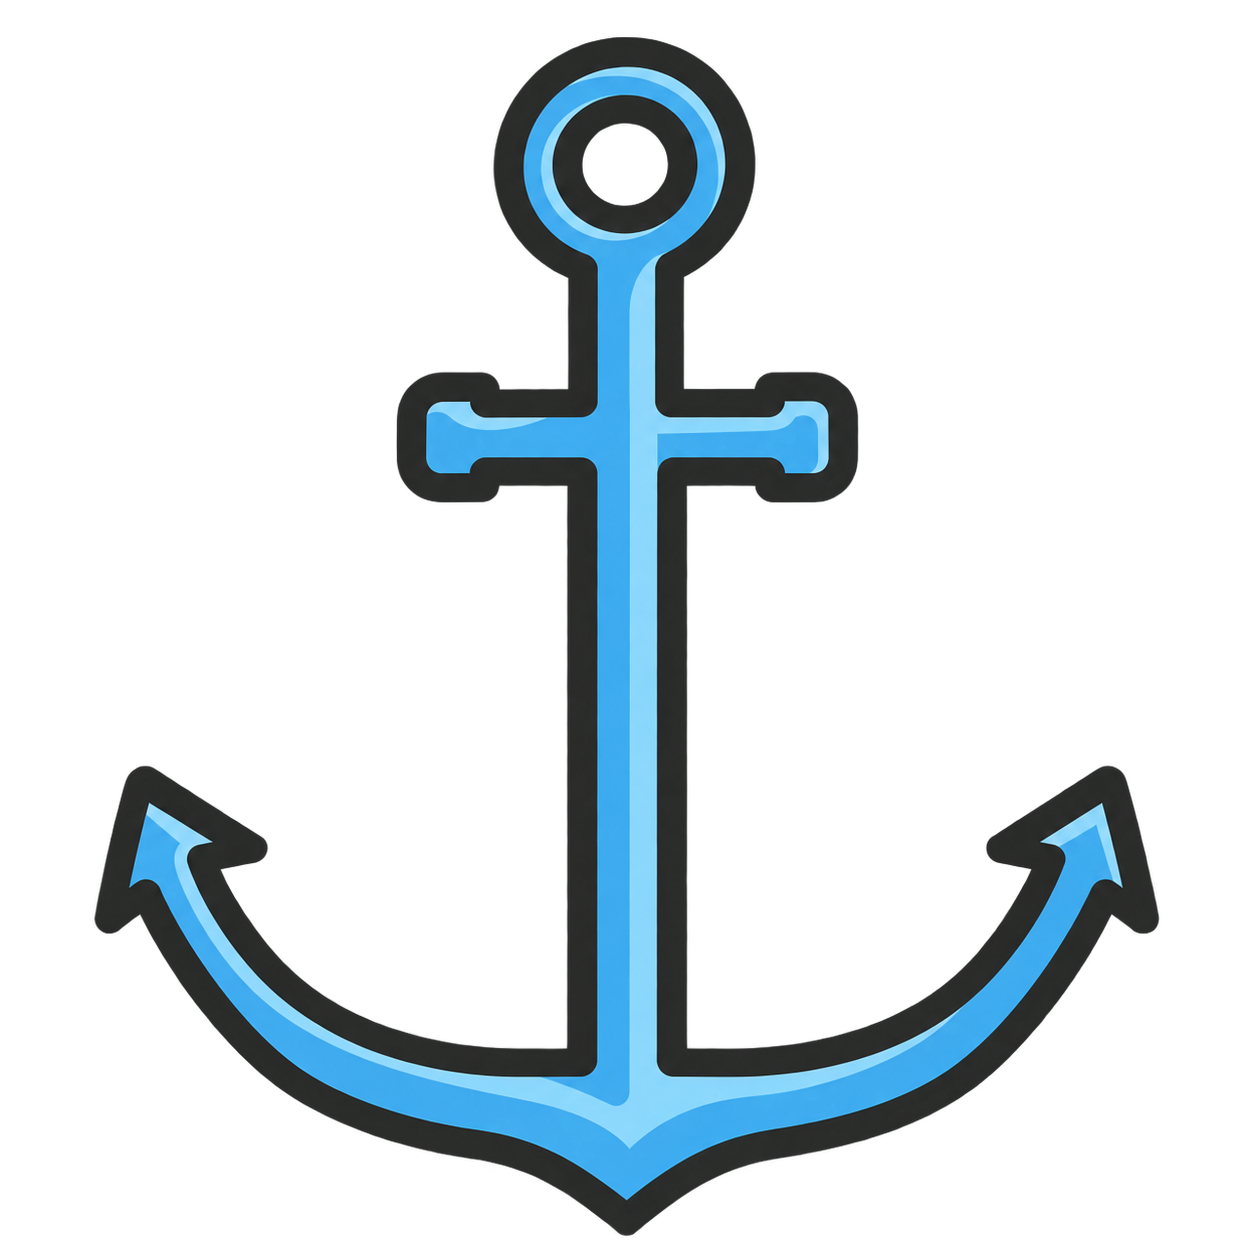
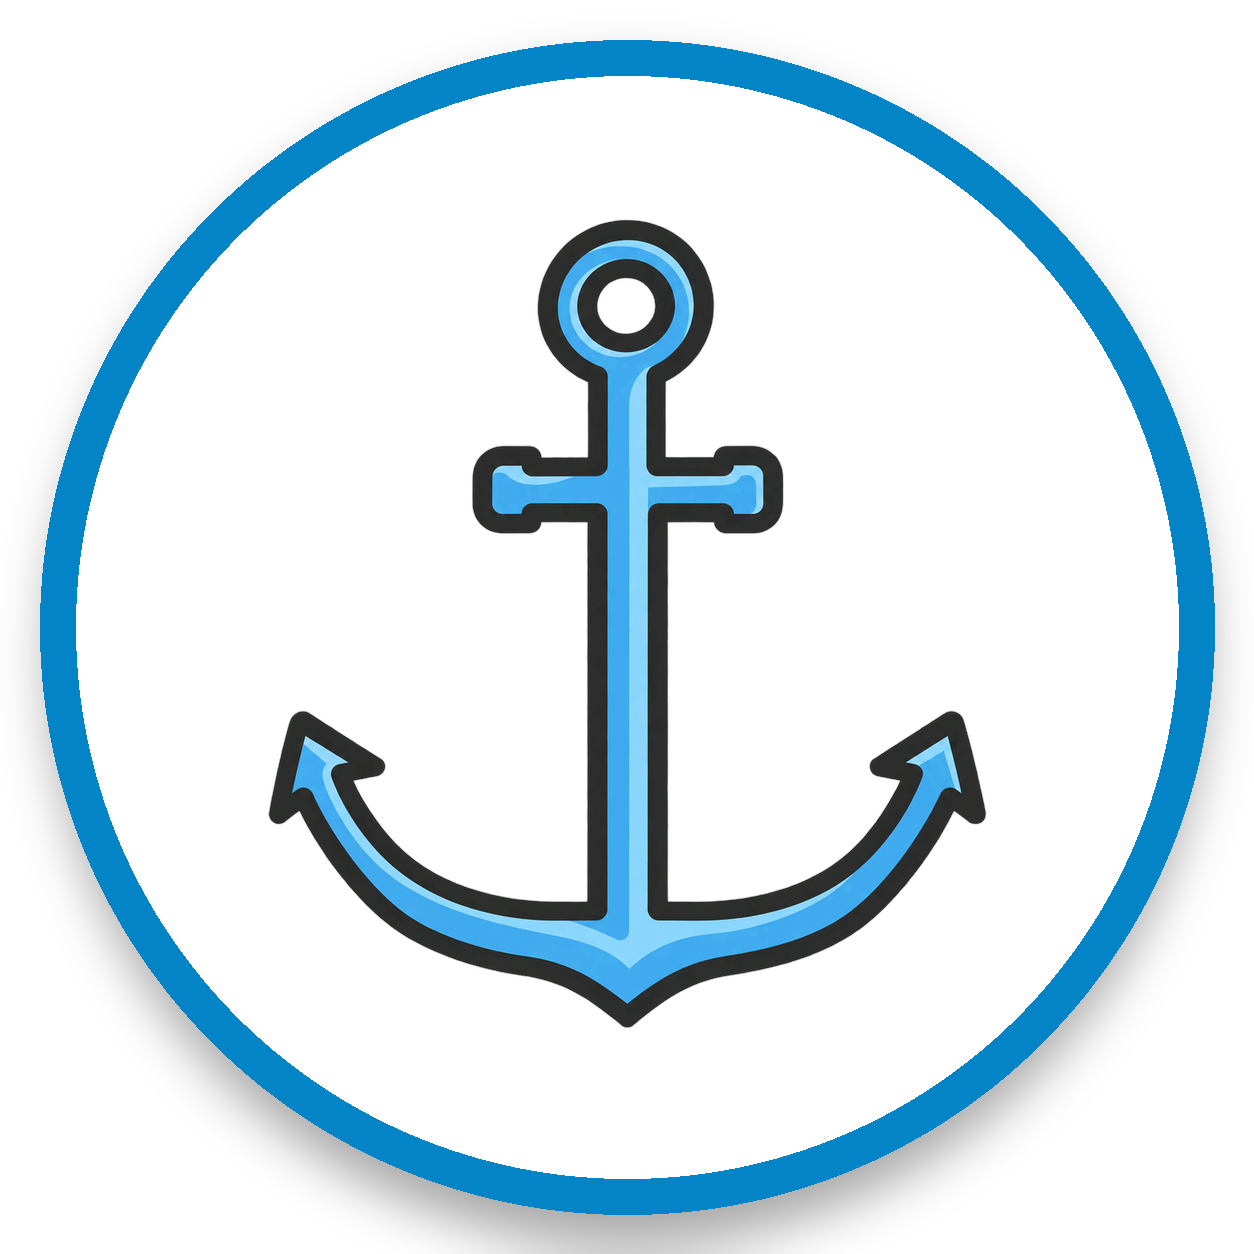
redesign the the port and the fishing zone

diff --git a/frontend/app/components/MapView.tsx b/frontend/app/components/MapView.tsx
@@ -275,18 +275,18 @@ const COASTAL_REGIONS: MarinePortPreset[] = [
 // dimmed (but not hidden) otherwise so the chart never looks bare.
 // `regionId` matches COASTAL_REGIONS so the existing region-focus logic applies.
 const PORT_MARKERS: { id: string; name: string; short: string; lon: number; lat: number; regionId: string }[] = [
-  { id: "mumbai",        name: "Mumbai",        short: "MUM", lon: 72.8479, lat: 18.9322, regionId: "mumbai" },
-  { id: "chennai",      name: "Chennai",      short: "CHN", lon: 80.2989, lat: 13.0836, regionId: "chennai" },
-  { id: "kochi",        name: "Kochi",        short: "KOC", lon: 76.2673, lat: 9.9312,  regionId: "kochi" },
-  { id: "thoothukudi", name: "Thoothukudi",  short: "TUT", lon: 78.1348, lat: 8.7642,  regionId: "gulf_mannar" },
-  { id: "visakhapatnam",name:"Visakhapatnam",short: "VIZ", lon: 83.2988, lat: 17.6868, regionId: "vizag" },
-  { id: "mangalore",    name: "Mangalore",    short: "MNG", lon: 74.8580, lat: 12.9141, regionId: "goa" },
-  { id: "rameswaram",   name: "Rameswaram",   short: "RAM", lon: 79.3129, lat: 9.2881,  regionId: "gulf_mannar" },
-  { id: "kanyakumari",  name: "Kanyakumari",  short: "KYK", lon: 77.5385, lat: 8.0884,  regionId: "gulf_mannar" },
-  { id: "paradip",      name: "Paradip",      short: "PAR", lon: 86.6714, lat: 20.3168, regionId: "kolkata" },
-  { id: "veraval",      name: "Veraval",      short: "VER", lon: 70.3629, lat: 20.9079, regionId: "gujarat" },
-  { id: "kakinada",     name: "Kakinada",     short: "KAK", lon: 82.2476, lat: 16.9891, regionId: "vizag" },
-  { id: "kolkata",      name: "Kolkata",      short: "KOL", lon: 88.3639, lat: 22.5726, regionId: "kolkata" },
+  { id: "mumbai", name: "Mumbai", short: "MUM", lon: 72.8479, lat: 18.9322, regionId: "mumbai" },
+  { id: "chennai", name: "Chennai", short: "CHN", lon: 80.2989, lat: 13.0836, regionId: "chennai" },
+  { id: "kochi", name: "Kochi", short: "KOC", lon: 76.2673, lat: 9.9312, regionId: "kochi" },
+  { id: "thoothukudi", name: "Thoothukudi", short: "TUT", lon: 78.1348, lat: 8.7642, regionId: "gulf_mannar" },
+  { id: "visakhapatnam", name: "Visakhapatnam", short: "VIZ", lon: 83.2988, lat: 17.6868, regionId: "vizag" },
+  { id: "mangalore", name: "Mangalore", short: "MNG", lon: 74.8580, lat: 12.9141, regionId: "goa" },
+  { id: "rameswaram", name: "Rameswaram", short: "RAM", lon: 79.3129, lat: 9.2881, regionId: "gulf_mannar" },
+  { id: "kanyakumari", name: "Kanyakumari", short: "KYK", lon: 77.5385, lat: 8.0884, regionId: "gulf_mannar" },
+  { id: "paradip", name: "Paradip", short: "PAR", lon: 86.6714, lat: 20.3168, regionId: "kolkata" },
+  { id: "veraval", name: "Veraval", short: "VER", lon: 70.3629, lat: 20.9079, regionId: "gujarat" },
+  { id: "kakinada", name: "Kakinada", short: "KAK", lon: 82.2476, lat: 16.9891, regionId: "vizag" },
+  { id: "kolkata", name: "Kolkata", short: "KOL", lon: 88.3639, lat: 22.5726, regionId: "kolkata" },
 ];
 
 // Build a GeoJSON FeatureCollection from PORT_MARKERS for the map source.
@@ -939,9 +939,9 @@ export function MapView({
         type: "geojson",
         data: EMPTY as never,
         cluster: true,
-        clusterMaxZoom: 4,
-        clusterMinPoints: 3,
-        clusterRadius: 48,
+        clusterMaxZoom: 9,
+        clusterMinPoints: 2,
+        clusterRadius: 55,
         // 2 fresh, 1 hint, 0 history — a cluster looks as current as its
         // freshest zone, so one old point never greys out a live group.
         clusterProperties: {
@@ -1208,9 +1208,9 @@ export function MapView({
       // Load custom port anchor icon from /assets/porticon.png
       const loadPortIcon = () => {
         const img = new Image();
-        img.src = "/assets/porticon.png";
+        img.src = "/assets/porticon.png?v=3";
         img.onload = () => {
-          const size = 30;
+          const size = 34;
           const px = 2;
           const canvas = document.createElement("canvas");
           canvas.width = size * px;
@@ -1225,18 +1225,39 @@ export function MapView({
       };
       loadPortIcon();
 
+      // Glowing highlight ring behind spotlighted port icon
+      m.addLayer({
+        id: "port-icons-glow",
+        type: "circle",
+        source: "port-markers",
+        minzoom: 4.8,
+        filter: ["==", ["get", "highlighted"], 1],
+        paint: {
+          "circle-radius": [
+            "interpolate", ["linear"], ["zoom"],
+            5, 18,
+            8, 25,
+            12, 32,
+          ],
+          "circle-color": "rgba(14, 165, 233, 0.35)",
+          "circle-blur": 0.4,
+          "circle-stroke-width": 2,
+          "circle-stroke-color": "#38bdf8",
+        },
+      });
+
       m.addLayer({
         id: "port-icons",
         type: "symbol",
         source: "port-markers",
-        minzoom: 5,
+        minzoom: 4.8,
         layout: {
           "icon-image": "port-icon",
           "icon-size": [
             "interpolate", ["linear"], ["zoom"],
-            5, 0.65,
-            8, 0.95,
-            12, 1.25
+            5, ["case", ["==", ["get", "highlighted"], 1], 0.8, 0.7],
+            8, ["case", ["==", ["get", "highlighted"], 1], 1.15, 0.95],
+            12, ["case", ["==", ["get", "highlighted"], 1], 1.45, 1.25],
           ],
           "icon-allow-overlap": true,
           "icon-ignore-placement": true,
@@ -1246,7 +1267,7 @@ export function MapView({
           "icon-opacity": [
             "case",
             ["==", ["get", "highlighted"], 1], 1.0,
-            0.65,
+            0.9,
           ],
         },
       });
@@ -1256,28 +1277,38 @@ export function MapView({
         id: "port-labels",
         type: "symbol",
         source: "port-markers",
-        minzoom: 6.5,
+        minzoom: 4.8,
         layout: {
           "text-field": ["get", "name"],
           "text-font": ["Open Sans Bold", "Montserrat Medium"],
-          "text-size": ["interpolate", ["linear"], ["zoom"], 7, 10, 10, 12, 13, 14],
-          "text-offset": [0, 1.35],
+          "text-size": [
+            "interpolate", ["linear"], ["zoom"],
+            5, ["case", ["==", ["get", "highlighted"], 1], 11.5, 10.5],
+            8, ["case", ["==", ["get", "highlighted"], 1], 13.5, 12],
+            12, ["case", ["==", ["get", "highlighted"], 1], 16, 14],
+          ],
+          "text-offset": [0, 1.5],
           "text-anchor": "top",
-          "text-optional": true,
-          "text-allow-overlap": false,
+          "text-optional": false,
+          "text-allow-overlap": true,
         },
         paint: {
           "text-color": [
             "case",
-            ["==", ["get", "highlighted"], 1], "#ffffff",
-            "rgba(220,240,255,0.75)",
+            ["==", ["get", "highlighted"], 1], "#38bdf8",
+            "#ffffff",
           ],
-          "text-halo-color": "rgba(4,16,26,0.95)",
-          "text-halo-width": 2.0,
+          "text-halo-color": "rgba(4, 16, 26, 0.95)",
+          "text-halo-width": [
+            "case",
+            ["==", ["get", "highlighted"], 1], 2.8,
+            2.2,
+          ],
+          "text-halo-blur": 0.3,
           "text-opacity": [
             "case",
             ["==", ["get", "highlighted"], 1], 1.0,
-            0.6,
+            0.92,
           ],
         },
       });
@@ -1363,16 +1394,18 @@ export function MapView({
 
     // Clicking a cluster zooms in on it — the standard supercluster
     // interaction, so "3+ zones nearby" is one tap away from "which 3".
-    m.on("click", "pfz-clusters", (e) => {
-      const feature = m.queryRenderedFeatures(e.point, { layers: ["pfz-clusters"] })[0];
+    const onClusterClick = (e: maplibregl.MapMouseEvent) => {
+      const feature = m.queryRenderedFeatures(e.point, { layers: ["pfz-clusters", "pfz-cluster-count"] })[0];
       const clusterId = feature?.properties?.cluster_id;
       const source = m.getSource("pfz") as maplibregl.GeoJSONSource | undefined;
       if (clusterId == null || !source) return;
       source.getClusterExpansionZoom(clusterId).then((zoom) => {
         const geometry = feature.geometry as { type: "Point"; coordinates: [number, number] };
-        m.easeTo({ center: geometry.coordinates, zoom, duration: 500 });
+        m.easeTo({ center: geometry.coordinates, zoom: Math.max(zoom, m.getZoom() + 1.5), duration: 500 });
       }).catch(() => { });
-    });
+    };
+    m.on("click", "pfz-clusters", onClusterClick);
+    m.on("click", "pfz-cluster-count", onClusterClick);
 
     m.on("click", (e) => {
       const badgeFeatures = m.queryRenderedFeatures(e.point, { layers: ["watch-badges-circles"] });
@@ -1405,7 +1438,7 @@ export function MapView({
       if (!selectedPfzCoordsRef.current) return;
       setSelectedPfzPos(projectPfzPos(m, selectedPfzCoordsRef.current));
     });
-    for (const id of ["boundaries-fill", "pfz-circles", "pfz-clusters", "watch-badges-circles"]) {
+    for (const id of ["boundaries-fill", "pfz-circles", "pfz-clusters", "pfz-cluster-count", "watch-badges-circles"]) {
       m.on("mouseenter", id, () => {
         m.getCanvas().style.cursor = "pointer";
       });
@@ -1724,8 +1757,8 @@ export function MapView({
         const currentAnchor: [number, number] = currentFocus.coords
           ? currentFocus.coords
           : portCoords
-          ? portCoords
-          : homePortCoordsRef.current ?? (suppressGpsZoomRef.current ? null : userLocationRef.current) ?? COASTAL_REGIONS[1].center;
+            ? portCoords
+            : homePortCoordsRef.current ?? (suppressGpsZoomRef.current ? null : userLocationRef.current) ?? COASTAL_REGIONS[1].center;
         const visible = filterPfzForFocus(pfzRaw, currentFocus, currentAnchor);
         (map.current.getSource("pfz") as maplibregl.GeoJSONSource)?.setData({
           type: "FeatureCollection",
@@ -1860,10 +1893,10 @@ export function MapView({
     const anchor: [number, number] = queryFocus.coords
       ? queryFocus.coords
       : portCoords
-      ? portCoords
-      : focusRegion
-      ? focusRegion.center
-      : homePortCoords ?? (suppressGpsZoom ? null : userLocation) ?? COASTAL_REGIONS[1].center;
+        ? portCoords
+        : focusRegion
+          ? focusRegion.center
+          : homePortCoords ?? (suppressGpsZoom ? null : userLocation) ?? COASTAL_REGIONS[1].center;
     let bearing: number | null = null;
     if (queryFocus.intent === "boundary") {
       const coords = boundaryFeatures.features.filter((f) => f.properties.near).flatMap((f) => flattenCoords(f.geometry));
@@ -1921,10 +1954,10 @@ export function MapView({
     const anchor: [number, number] = queryFocus.coords
       ? queryFocus.coords
       : portCoords
-      ? portCoords
-      : region
-      ? region.center
-      : homePortCoordsRef.current ?? (suppressGpsZoomRef.current ? null : userLocationRef.current) ?? COASTAL_REGIONS[1].center;
+        ? portCoords
+        : region
+          ? region.center
+          : homePortCoordsRef.current ?? (suppressGpsZoomRef.current ? null : userLocationRef.current) ?? COASTAL_REGIONS[1].center;
 
     // Cinematic: tilt toward the target, then level off. A ~15° pitch during
     // the approach makes the chart read as "zooming in from altitude".
@@ -1963,14 +1996,14 @@ export function MapView({
       const target = region
         ? { center: region.center as [number, number], zoom: region.zoom }
         : queryFocus.coords
-        ? { center: queryFocus.coords, zoom }
-        : portCoords
-        ? { center: portCoords, zoom }
-        : homePortCoordsRef.current
-        ? { center: homePortCoordsRef.current, zoom }
-        : !suppressGpsZoomRef.current && userLocationRef.current
-        ? { center: userLocationRef.current, zoom }
-        : { center: INDIA_VIEW.center as [number, number], zoom: INDIA_VIEW.zoom };
+          ? { center: queryFocus.coords, zoom }
+          : portCoords
+            ? { center: portCoords, zoom }
+            : homePortCoordsRef.current
+              ? { center: homePortCoordsRef.current, zoom }
+              : !suppressGpsZoomRef.current && userLocationRef.current
+                ? { center: userLocationRef.current, zoom }
+                : { center: INDIA_VIEW.center as [number, number], zoom: INDIA_VIEW.zoom };
       cinematicFly({ ...target, duration: 1100 });
     };
 
@@ -2294,8 +2327,8 @@ export function MapView({
               at the fishing zone marker it describes. */}
           <div
             className={`absolute z-10 size-3.5 -translate-y-1/2 rotate-45 bg-shelf-3 ${selectedPfzPos.side === "right"
-                ? "-left-[7px] border-b border-l border-go/40"
-                : "-right-[7px] border-t border-r border-go/40"
+              ? "-left-[7px] border-b border-l border-go/40"
+              : "-right-[7px] border-t border-r border-go/40"
               }`}
             style={{ top: selectedPfzPos.arrowY }}
           />
@@ -2506,8 +2539,8 @@ export function MapView({
                             aria-pressed={basemap === id}
                             onClick={() => setBasemap(id)}
                             className={`rounded-sm border px-2 py-1 text-[11px] transition-colors ${basemap === id
-                                ? "border-accent bg-accent/10 font-semibold text-ink"
-                                : "border-hairline text-ink-muted hover:bg-shelf-2/70"
+                              ? "border-accent bg-accent/10 font-semibold text-ink"
+                              : "border-hairline text-ink-muted hover:bg-shelf-2/70"
                               }`}
                           >
                             {BASEMAP_LABELS[id]}
